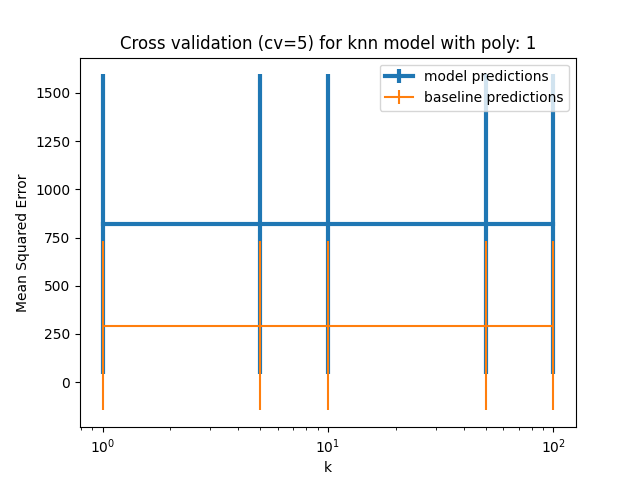
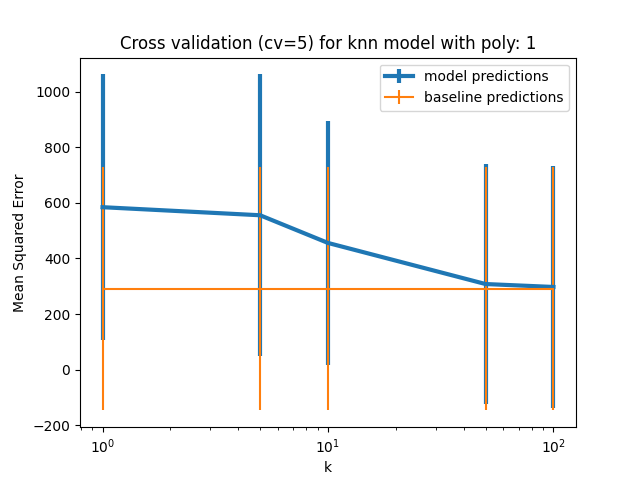
Fixed knn CV

diff --git a/linRegCrossVal.py b/linRegCrossVal.py
@@ -84,7 +84,7 @@ def Xval(X, y, model, independant_vars, polyCount):
         #elif(model == "linear"):
         #    selectedModel = LinearRegression().fit(X, y)
         elif(model == "knn"):
-            selectedModel = KNeighborsRegressor(n_neighbors=2, weights='uniform').fit(X, y)
+            selectedModel = KNeighborsRegressor(n_neighbors=independant_var, weights='uniform').fit(X, y)
         
         # Run model
         scores = cross_val_score(selectedModel, X, y, cv=5, scoring='neg_mean_squared_error')
@@ -144,8 +144,8 @@ polyRange = range(1,3)
 for cPoly in polyRange:
     poly = PolynomialFeatures(cPoly)
     powerFeatures = poly.fit_transform(X)
-    XvalLasso(powerFeatures, y, cPoly) 
+    # XvalLasso(powerFeatures, y, cPoly) 
     # XvalRidge(powerFeatures, y, cPoly)     
-    # XvalKNN(powerFeatures, y, cPoly) 
+    XvalKNN(powerFeatures, y, cPoly) 
 
 
